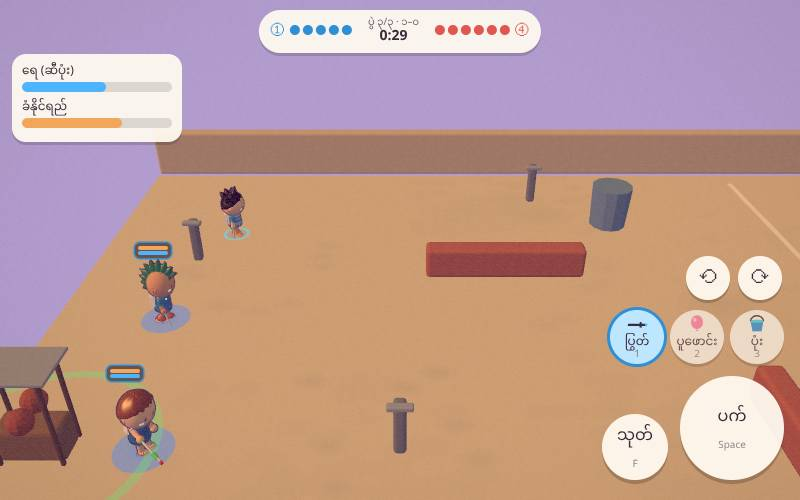
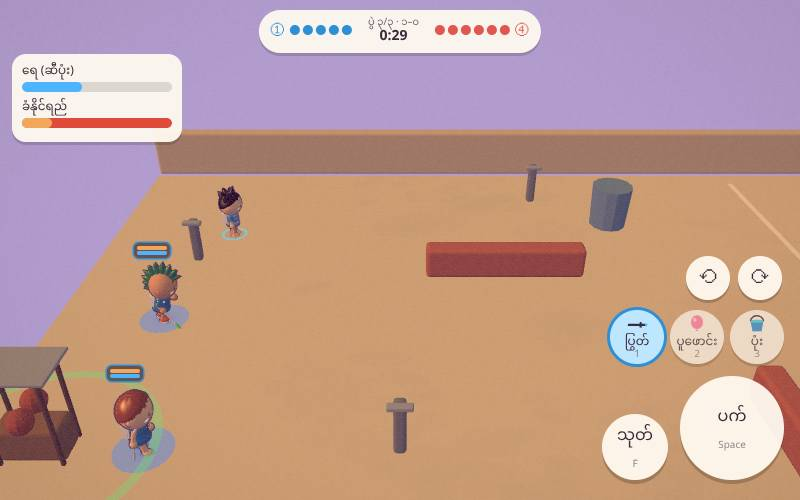
T8: ?auto three-round results in the plan
Claude-Session: https://claude.ai/code/session_017xuZq8H4cNKSMdBo5y4KvM

diff --git a/docs/plans/T8.md b/docs/plans/T8.md
@@ -59,6 +59,17 @@ The shop / money / `S.goggles` belong to T6. T8 is what goggles *do* in a fight.
 - **overlay, 40 face hits on you** (`goggles.cjs`, sampled per frame; ratio = goggles down / up). With goggles down, a face drop puts **no water in the eyes**: it adds no sting, and counts as a body drop for the drown film (both ×`goggleSoakK` .4). The first run fed sting per drop: one held stroke of ten face drops saturated the .5 tint either way, ratio ~1.
   - *a held pump* (10 face hits / .4 s): peak sting **0** vs .5 · film **.17** vs .5 (**.34**) · blur **0** vs 1.2 · area film **.07**, drown **.05** → ✅ ≤ .4
   - *a dribble* (1 face hit / .25 s): peak sting 0 vs .5 · film .02 vs .12 (**.17**) · blur 0 vs 1.2 → ✅
-- **?auto, 3 rounds** — see below.
+- **?auto, 3 rounds** (`docs/water/check.cjs 8795 30`, ① wins 1 · draw · ①; console 0), grit taken per kid over the match:
+
+  | ④ kid | goggles | ×K | OUTs | hits | grit lost | per hit |
+  |---|---|---|---|---|---|---|
+  | B0 Thura | down | .8 | **0** | **0** | 0 | — |
+  | B1 goggles kid | down | 1 | 0 | 125 | 1.00 | **.0080** |
+  | B2 | — | 1 | 0 | 143 | 1.65 | .0116 |
+  | B3 | — | 1 | 2 | 67 | 3.32 | .0495 |
+  | B4 | — | 1 | 1 | 68 | 2.97 | .0437 |
+  | B5 | — | 1 | 1 | 82 | 2.19 | .0267 |
+
+  The check's "least per hit / fewest OUTs on ④" passes, but honestly: **Thura took no hits at all** in 92 s (his `ambush` state keeps him on a corner behind cover), so the run doesn't exercise his ×.8. That's measured by `damage.cjs` instead (face stroke −.064 vs −.08 for the goggles kid vs −.12 for a plain kid). The goggles kid shows the face ×1.0: the lowest grit per hit of the ④ kids who got hit (.008 = body-hit rate). One 5 s snag, Cho Cho (`hide`) at (−9.1, −1.1). It's the T3 AI, not T8, and is the same spot type `grid.snap` was meant to fix; a T3.1 note.
 - **console errors**: 0 in every run (damage, goggles, auto, NPC).
 - Screenshots: `docs/water/goggles-me-up.jpg`, `goggles-me-down.jpg`, `goggles-thura-down.jpg`, `goggles-thura-up.jpg`, `goggles-thura-flash.jpg` (flash held on for the picture — at ~1 fps a .15 s flash is one frame), `goggles-soak.jpg`, `goggles-soak-none.jpg`.
